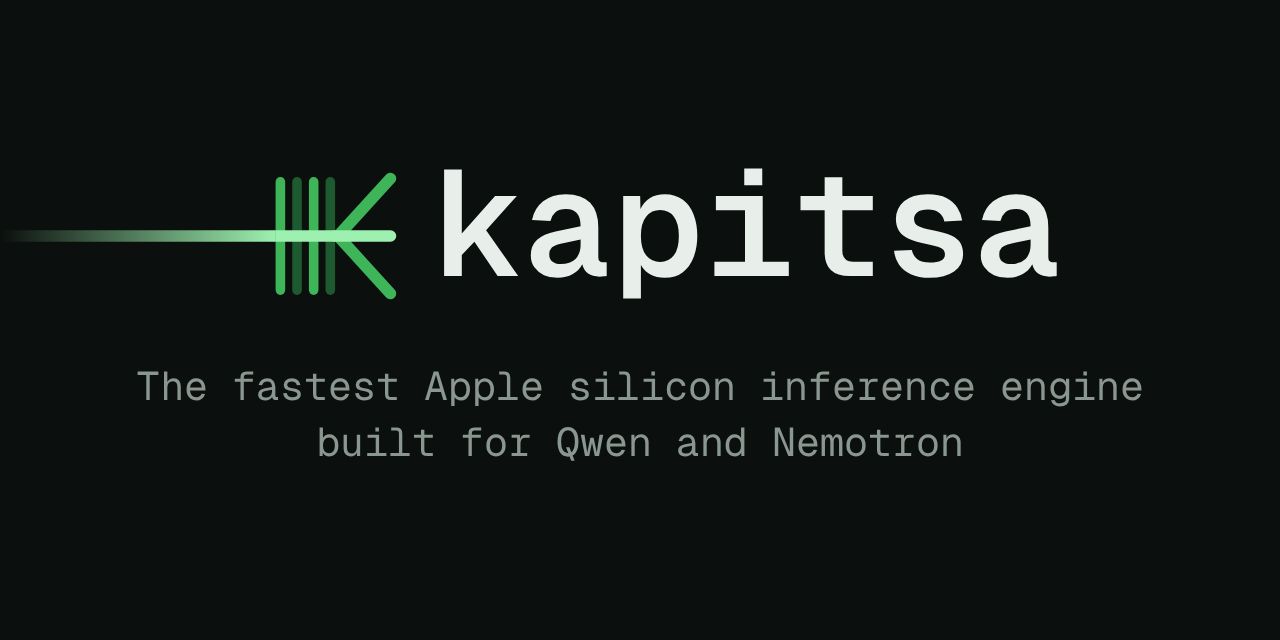
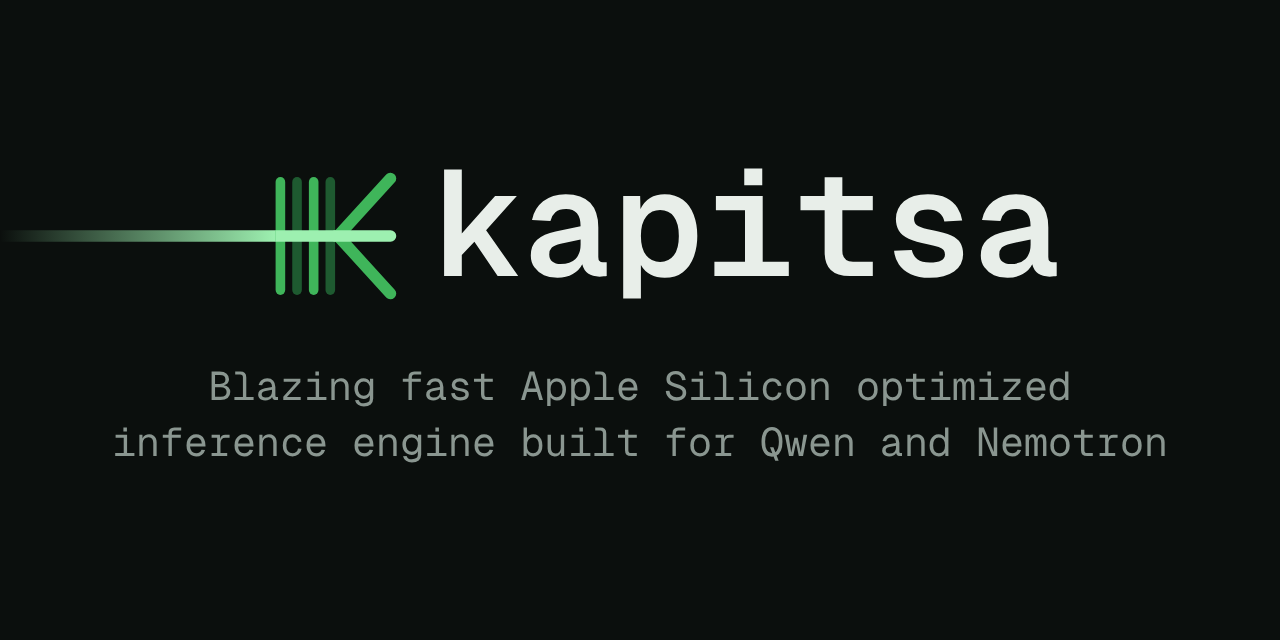
Header, social preview and CLI: "Blazing fast Apple Silicon optimized inference engine built for Qwen and Nemotron" (#65)
The tagline matches the repository description. It is in docs/assets/header-dark.svg, header-light.svg and
header-narrow.svg (image and title), docs/assets/brand/social-preview.svg and .png, the README's alt text and the
command line's home screen (shorter where the terminal is narrow). The bars and their caption are unchanged.

Changed region(s): [[0.0938, 0.6562, 0.9062, 0.7188], [0.125, 0.5625, 0.9062, 0.625], [0.0938, 0.5625, 0.125, 0.5938]]

diff --git a/src/server/ui.cpp b/src/server/ui.cpp
@@ -145,9 +145,9 @@ void home(const std::string& version) {
   // may play
   // the tagline (the README's), shorter where it does not fit beside the logo
   const int room = columns() - (2 + kLogoCols + 3) - 1;
-  std::string tagline = "the fastest Apple silicon inference engine built for Qwen and Nemotron";
-  if (width(tagline) > room) tagline = "fastest Apple silicon engine built for Qwen and Nemotron";
-  if (width(tagline) > room) tagline = "built for Qwen and Nemotron on Apple silicon";
+  std::string tagline = "blazing fast Apple Silicon optimized inference engine built for Qwen and Nemotron";
+  if (width(tagline) > room) tagline = "blazing fast Apple Silicon engine for Qwen and Nemotron";
+  if (width(tagline) > room) tagline = "built for Qwen and Nemotron on Apple Silicon";
   const std::vector<std::string> head = {badge(" kapitsa ") + "  " + dim(version), tagline, dim(this_mac())};
   const hub::CatalogModel* best = best_here();
   fputs("\n", stdout);

diff --git a/README.md b/README.md
@@ -1,7 +1,7 @@
 <picture>
   <source media="(max-width: 600px)" srcset="docs/assets/header-narrow.svg">
   <source media="(prefers-color-scheme: dark)" srcset="docs/assets/header-dark.svg">
-  <img alt="Kapitsa: the fastest Apple silicon inference engine built for Qwen and Nemotron. Writing speed of Qwen3.6 35B-A3B on a MacBook Pro (2024), M4 Pro, 48 GB, in tokens per second, at 4-bit: Kapitsa 154, oMLX with DFlash2 127, Ollama 89, LM Studio 86, MTPLX 80, llama.cpp with MTP 69." src="docs/assets/header-light.svg">
+  <img alt="Kapitsa: a blazing fast Apple Silicon optimized inference engine built for Qwen and Nemotron. Writing speed of Qwen3.6 35B-A3B on a MacBook Pro (2024), M4 Pro, 48 GB, in tokens per second, at 4-bit: Kapitsa 154, oMLX with DFlash2 127, Ollama 89, LM Studio 86, MTPLX 80, llama.cpp with MTP 69." src="docs/assets/header-light.svg">
 </picture>
 
 [Install](#install) · [Benchmarks](#benchmarks) · [Models](#models) · [Docs](docs/usage.md)
